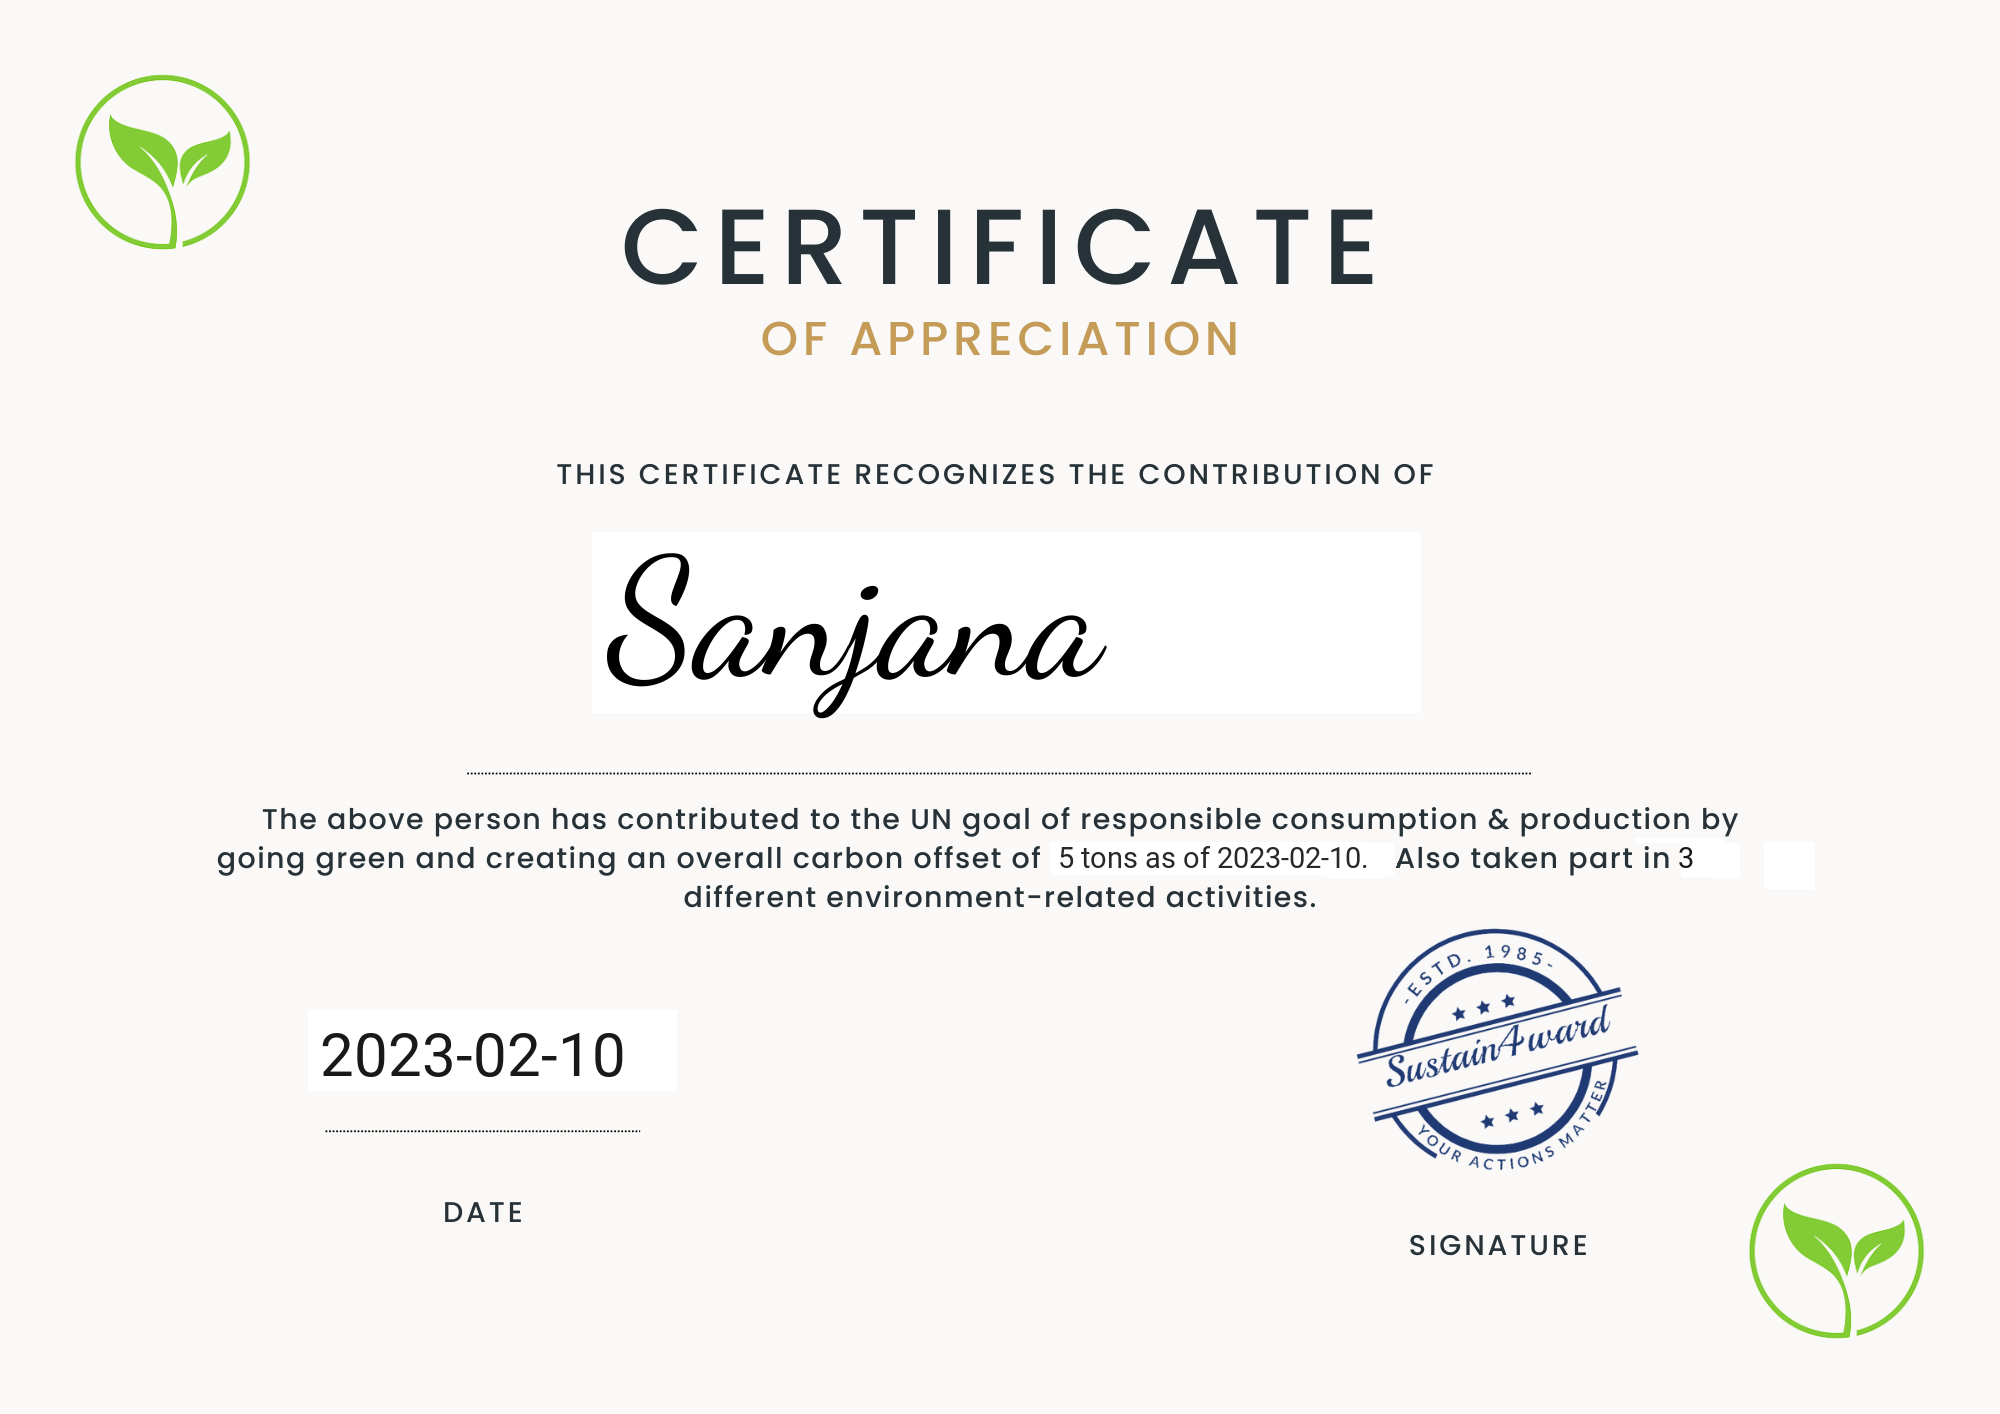
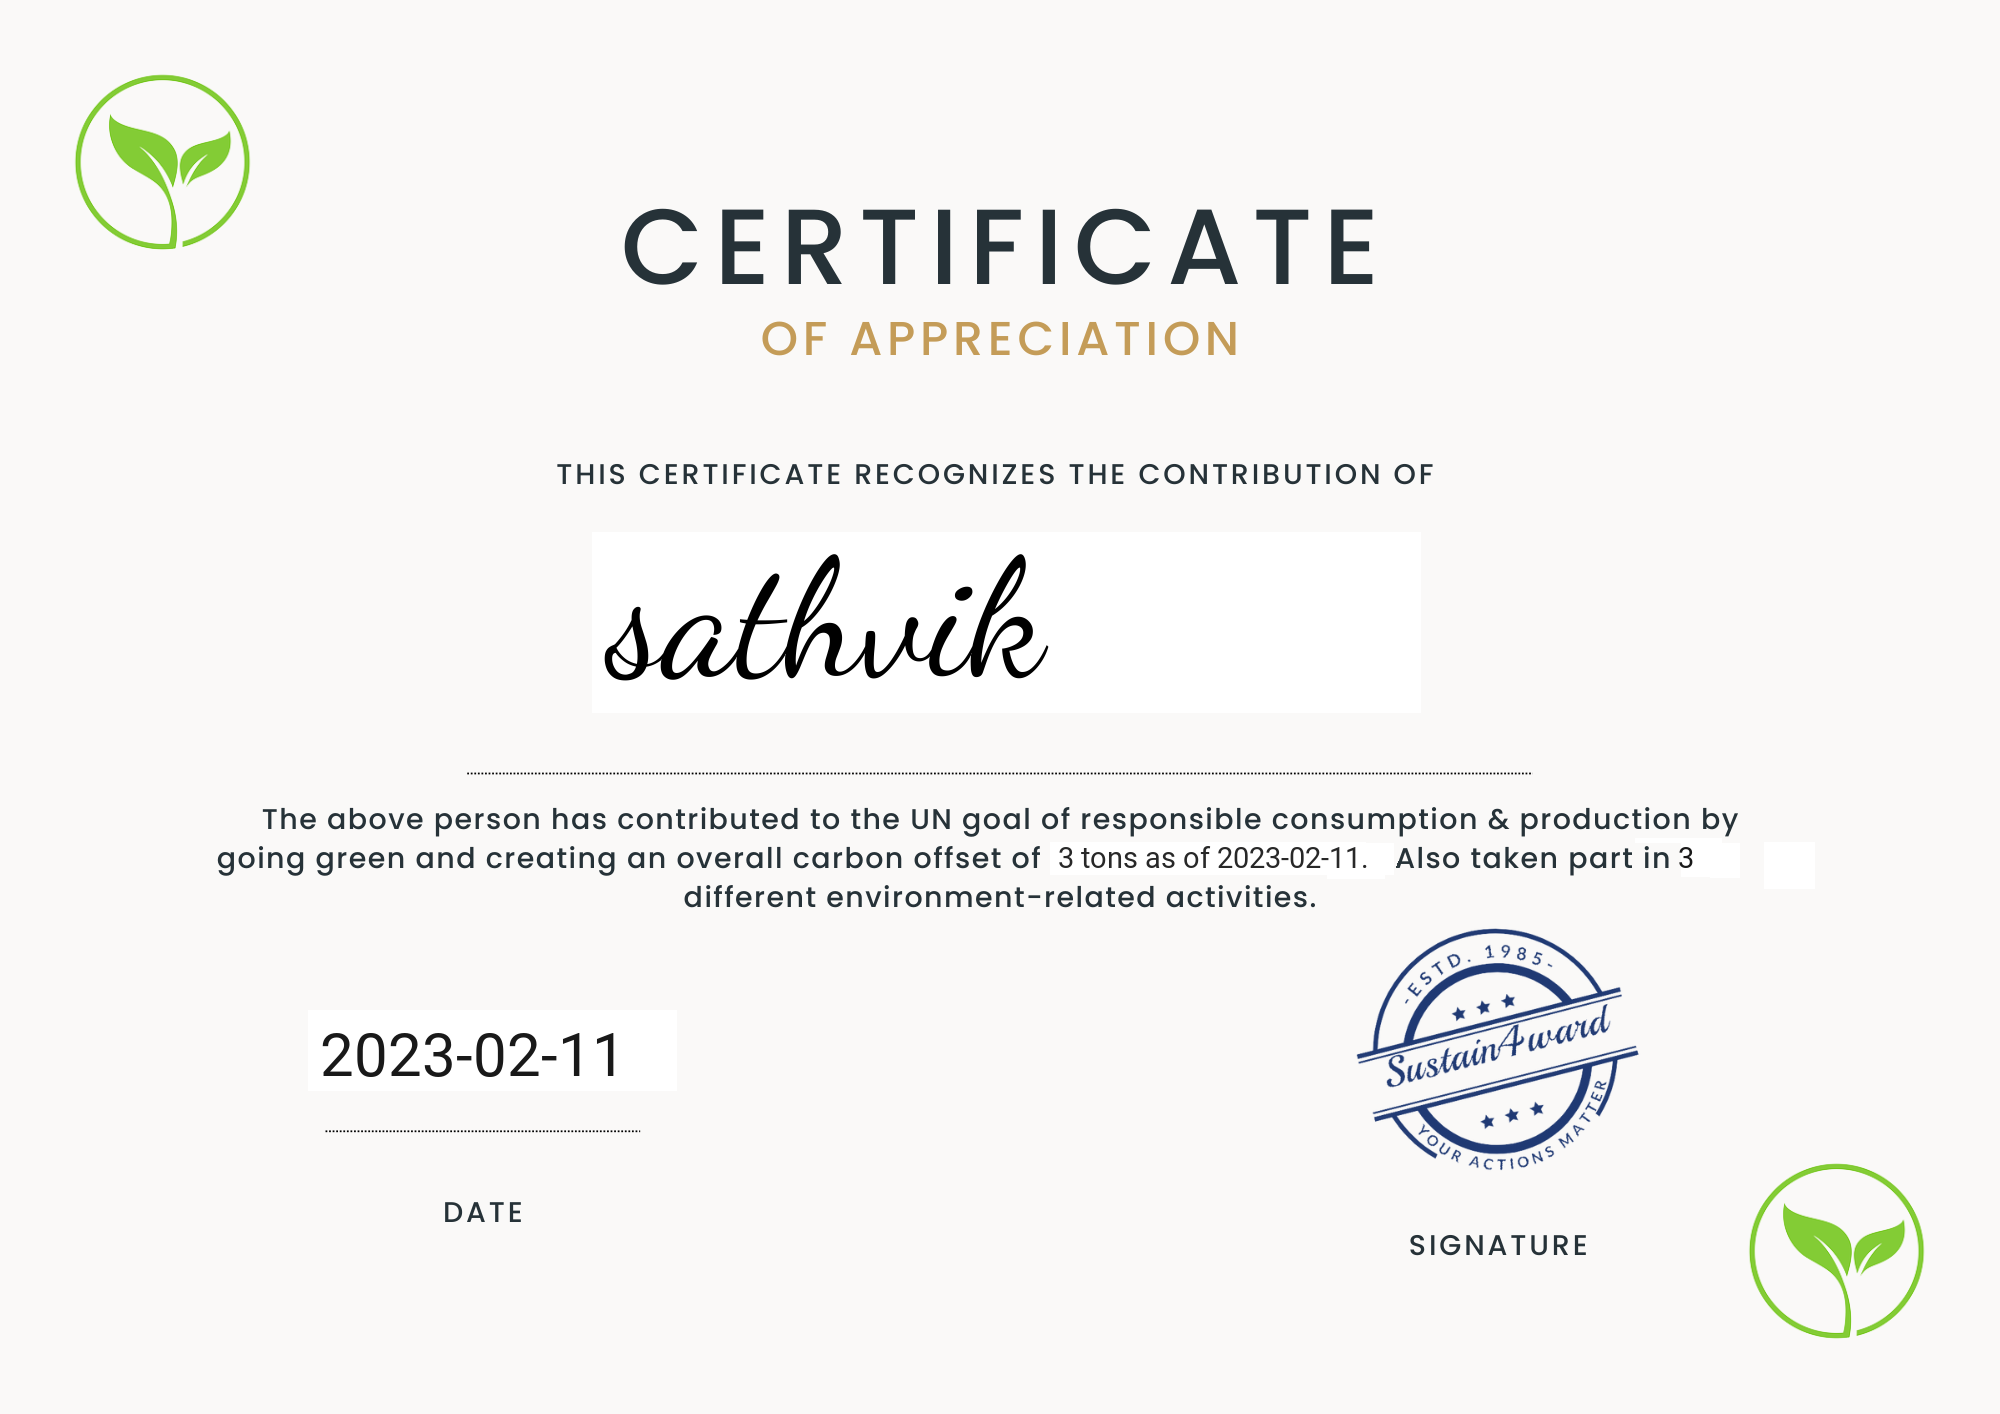
extension mgic

Changed region(s): [[0.31, 0.3734, 0.558, 0.4979], [0.279, 0.7157, 0.31, 0.7779]]

diff --git a/extension/popup.js b/extension/popup.js
@@ -1,5 +1,6 @@
 
 let btn = document.getElementById("start")
+
 btn.addEventListener("click",()=>{
     chrome.tabs.query({active : true , currentWindow : true } ,function (tabs){
         chrome.tabs.sendMessage( tabs[0].id ,{type: "start"} ,(resp)=>{
@@ -9,14 +10,26 @@ btn.addEventListener("click",()=>{
 })
 
 
-function sendtobknd(data){
-    fetch("http://127.0.0.1:5000/extapi/",{method:"POST",
+async function sendtobknd(data){
+    let resp = await fetch("http://127.0.0.1:5000/extapi/",{method:"POST",
     headers: {
         'Content-Type': 'application/json'
         // 'Content-Type': 'application/x-www-form-urlencoded',
       },
     body : JSON.stringify(data)
-    }).then(resp=>{
-        console.log("sent successfully");
     })
+    let respdata = await resp.json()
+    datadisp(respdata)
+}
+
+function datadisp(data){
+    let prodcont = document.getElementById("prodcont")
+    prodcont.style.width="600px"
+    document.body.style.backgroundImage = "linear-gradient(red, yellow)"
+    document.body.style.color= "white"
+    data.forEach(element => {
+        child = document.createElement("h4")
+        child.innerText = element
+        prodcont.appendChild(child)
+    });
 }

diff --git a/extension/index.html b/extension/index.html
@@ -7,5 +7,8 @@
     <h4>Your actions matter!</h4>
     <button id="start" >start</button>
     <script src="popup.js"></script>
+    <div id="prodcont" >
+
+    </div>
 </body>
 </html>

diff --git a/backend/app.py b/backend/app.py
@@ -1,7 +1,9 @@
 from flask import Flask , send_file,request,render_template
 from flask_cors import CORS
-from flask_pymongo import PyMongo
+from pymongo import MongoClient
 import json
+import certifi
+ca = certifi.where()
 
 d=dict()
 d["heater"] ={ "val" : 7 ,"alt" : "https://sunearthinc.com/"  }
@@ -16,8 +18,10 @@ d["steel"] =3
 
 
 app=Flask(__name__)
-app.config["MONGO_URI"]="mongodb://10.5.52.120:27017/sustain4ward"
-mongo = PyMongo(app)
+client = MongoClient("mongodb+srv://hemabhushan:Doraemon2003@cluster1.janrf2b.mongodb.net/Sustain?retryWrites=true&w=majority" )
+db = client.Sustain
+collection = db.hbproducts
+
 CORS(app)
 @app.route("/extapi/" , methods=["POST","GET"])
 def extapi():
@@ -29,14 +33,38 @@ def extapi():
     # mongo.db.hbproducts.create_index({"Product name (and functional unit)" : "text"})
     objs=[]
     # obj = mongo.db.hbproducts.find({ "Product name (and functional unit)" : {"$text" : "Cereal" } })
+    trashlist = ["per","with" , "!" ,"." ," " ,"as" ,"100%" ,"in" ,"or" ,"the" ,"how","where","what","on","for","while","out","after","with","a","an","()","(",")",";",",","-","_","","of","and","to","will","in","is","that","this","by","come","i","you","me","our","not","it","isnt","be","or","from","at","all","more","less","can","if","else","mine","cannot","can't","cant","isn't","we","no","yes","they","their","may","upto","untill","today","tomorrow","yesterday","perhaps","per","/"]
+    data = map(lambda a : a.replace("(","").replace(")",""),data)
+    data = list(data)
+    data = filter(lambda a : ((not a.isnumeric()) and len(a)!=1 and (a.lower() not in trashlist)),data)
+    data = list(data)
+    
+    # print(data)
+    # return "break"
     for word in data:
-        objs.extend(list(mongo.db.hbproducts.find({ "Product name (and functional unit)" : {"$text" : word } })))
-    
+        
+        wordobjs= list(collection.aggregate([
+            {
+                "$search" : {
+                    "index" : "pi",
+                    "text" :{
+                        "query": word,
+                        "path" : "Product name (and functional unit)"
+                    }
+                }
+            }
+        ]))
+        print(len(wordobjs[0:2]))
+        objs.extend(wordobjs[0:2])
+        
     objs=list(objs)
-    print(objs)
+    # print(len(objs))
+    for item in objs:
+        print(item["Product name (and functional unit)"],"\n\n")
     
+    titles = list(map(lambda a:a["Product name (and functional unit)"] , objs))
     
-    return "ok"
+    return titles
     pass
 
 @app.route("/api/")
@@ -45,27 +73,27 @@ def api():
     return render_template("colour.html" , link = d[category]["alt"] , num=d[category]["val"])
     pass
 
-@app.route("/uploadproduct/" , methods=["POST" , "GET"] )
-def uploadproduct():
-    if request.method=="POST":
-        data = request.form
-        # print(data)
-        data = dict(data.copy())
-        if "img" not in request.files:
-            return "file not uploaded rpoperly, refresh and try again"
-        img = request.files["img"]
-        mongo.save_file(img.filename , img)
-        # return mongo.send_file(img.filename)
-        print("saved :",img.filename)
-        data["img"] = img.filename
-        mongo.db.get_collection("products").insert_one(data)
-        return "uploaded!"
-    return send_file("../frontend/insertportal/insertport.html")
-    pass
-@app.route("/getimage/<name>")
-def getimage(name):
-    print("asked for:",name)
-    return mongo.send_file(name)
+# @app.route("/uploadproduct/" , methods=["POST" , "GET"] )
+# def uploadproduct():
+#     if request.method=="POST":
+#         data = request.form
+#         # print(data)
+#         data = dict(data.copy())
+#         if "img" not in request.files:
+#             return "file not uploaded rpoperly, refresh and try again"
+#         img = request.files["img"]
+#         mongo.save_file(img.filename , img)
+#         # return mongo.send_file(img.filename)
+#         print("saved :",img.filename)
+#         data["img"] = img.filename
+#         mongo.db.get_collection("products").insert_one(data)
+#         return "uploaded!"
+#     return send_file("../frontend/insertportal/insertport.html")
+#     pass
+# @app.route("/getimage/<name>")
+# def getimage(name):
+#     print("asked for:",name)
+#     return mongo.send_file(name)
 
 @app.route("/")
 def home():

diff --git a/certificationsys/generate.py b/certificationsys/generate.py
@@ -14,4 +14,4 @@ def create_cert(name,offset,activities):
     editable.text((320 ,1020),f"{datetime.date.today()}",(25,25,25),font= date_font)
     raw.save("converted.png")
     
-#
+create_cert("Sathvik",3,3)
